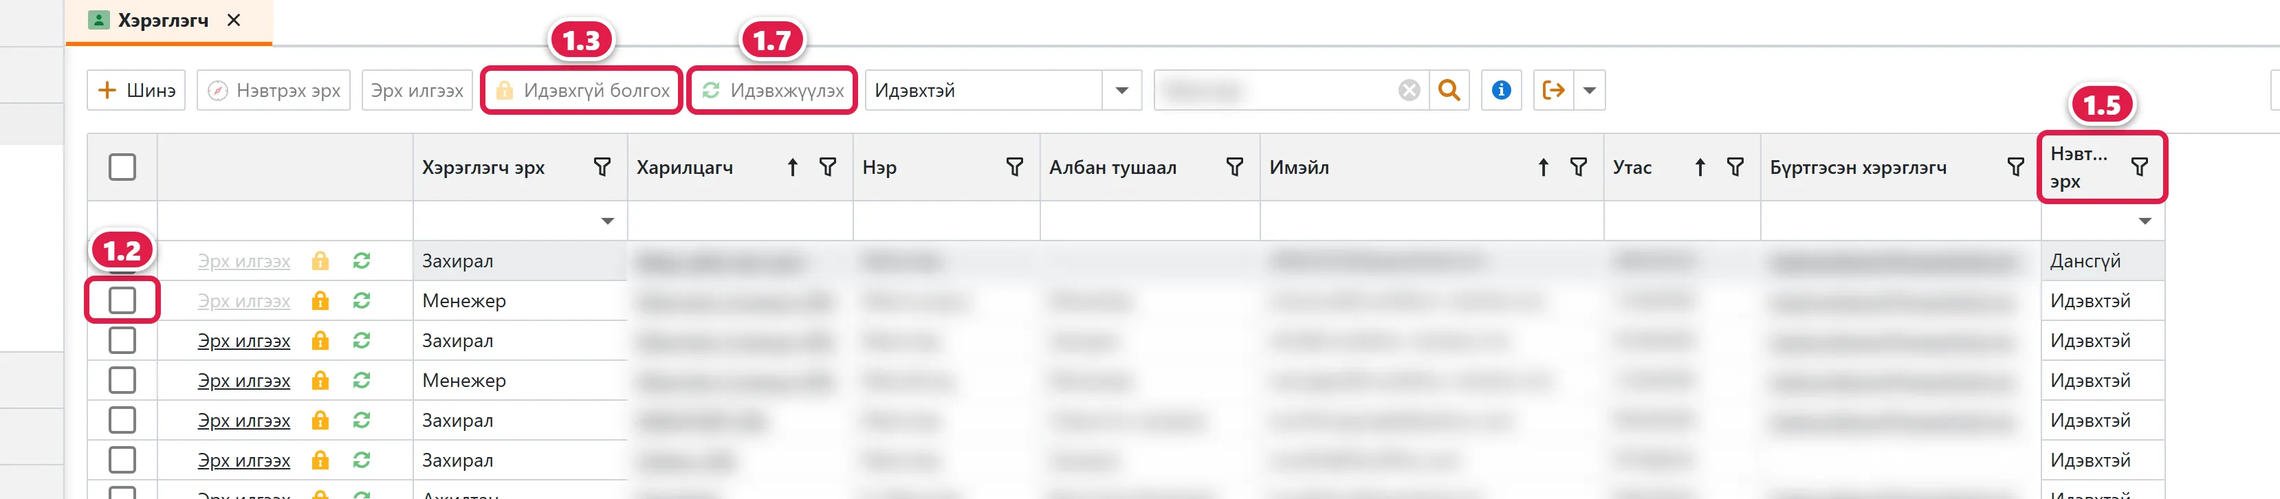
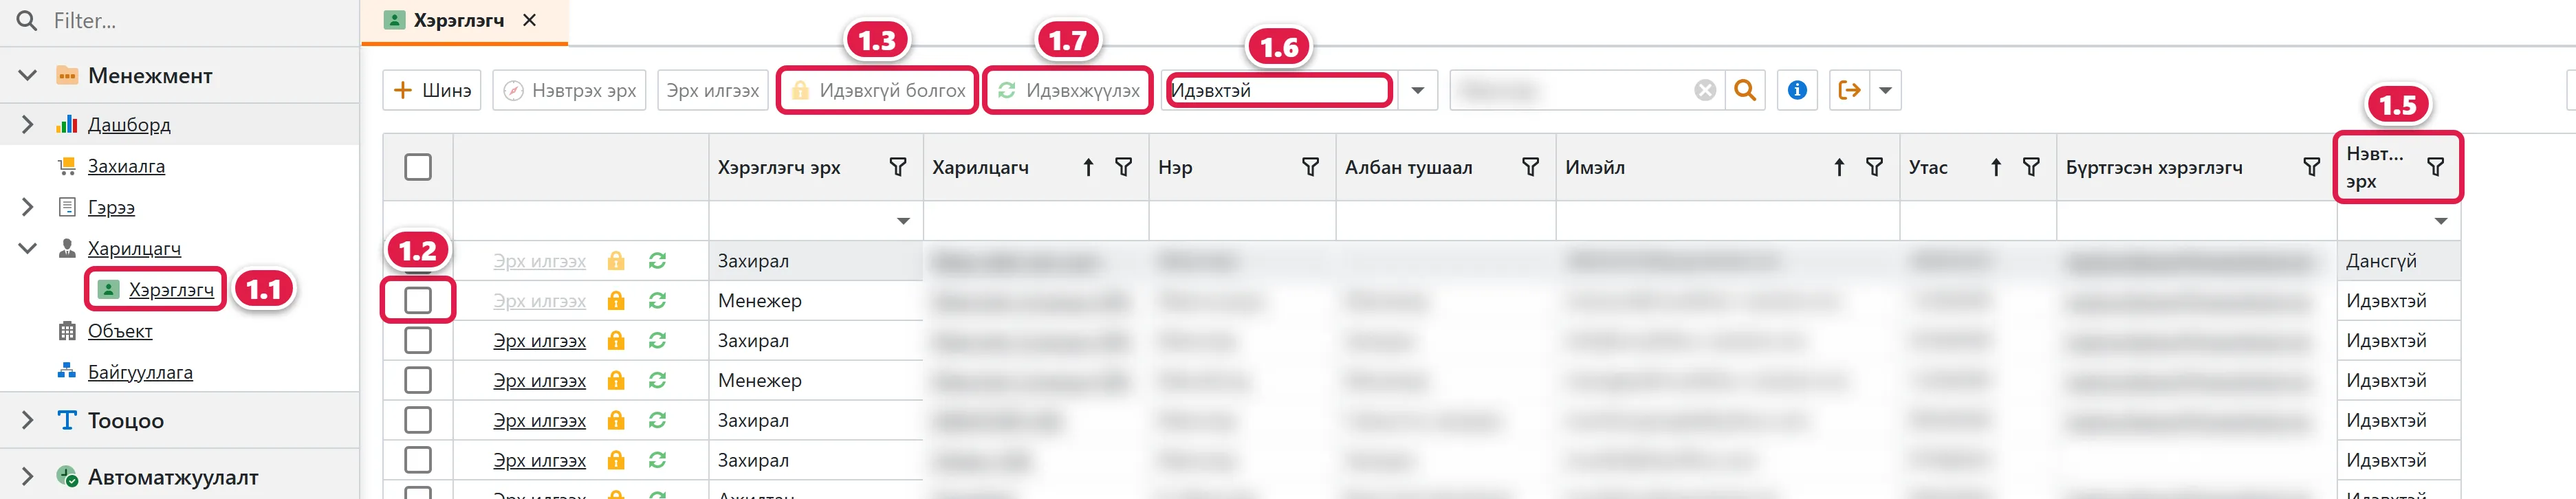
help: «Хэрэглэгч идэвхгүй болгох» зурагт 1.1 цэс, 1.6 шүүлтийн тэмдэг; 1.4 асуултыг шалтгаантай нь тэмдэглэв
- shots.json owner/hereglegch-idevhgui-1: expand «Харилцагч», marks 1.1 (цэс «Хэрэглэгч»), 1.6 (шүүлт «Идэвхтэй»); зураг дахин авав (6/6 тэмдэг, нэр/утас/имэйл бүдгэр).
- imgmap_skip 1.4 — асуулт товч дарсны дараа гарна.
- help-lint ⚠ 13 → 12.

diff --git a/docs/owner/hereglegch-idevhgui.md b/docs/owner/hereglegch-idevhgui.md
@@ -3,7 +3,7 @@ slug: /owner/hereglegch-idevhgui
 sidebar_label: Хэрэглэгчийг идэвхгүй болгох
 type: zaavar
 roles: [owner, menejer]
-updated: 2026-10-29
+updated: 2026-11-01
 verified_commit: 84985f8
 keywords:
   - "идэвхгүй болгох"
@@ -11,6 +11,7 @@ keywords:
   - "ажилтан гарсан"
   - "нэвтрэх эрх хаах"
   - "Эрх хаах"
+imgmap_skip: "1.4 асуулт товч дарсны дараа гарна"
 ---
 # Хэрэглэгчийг идэвхгүй болгох
 
